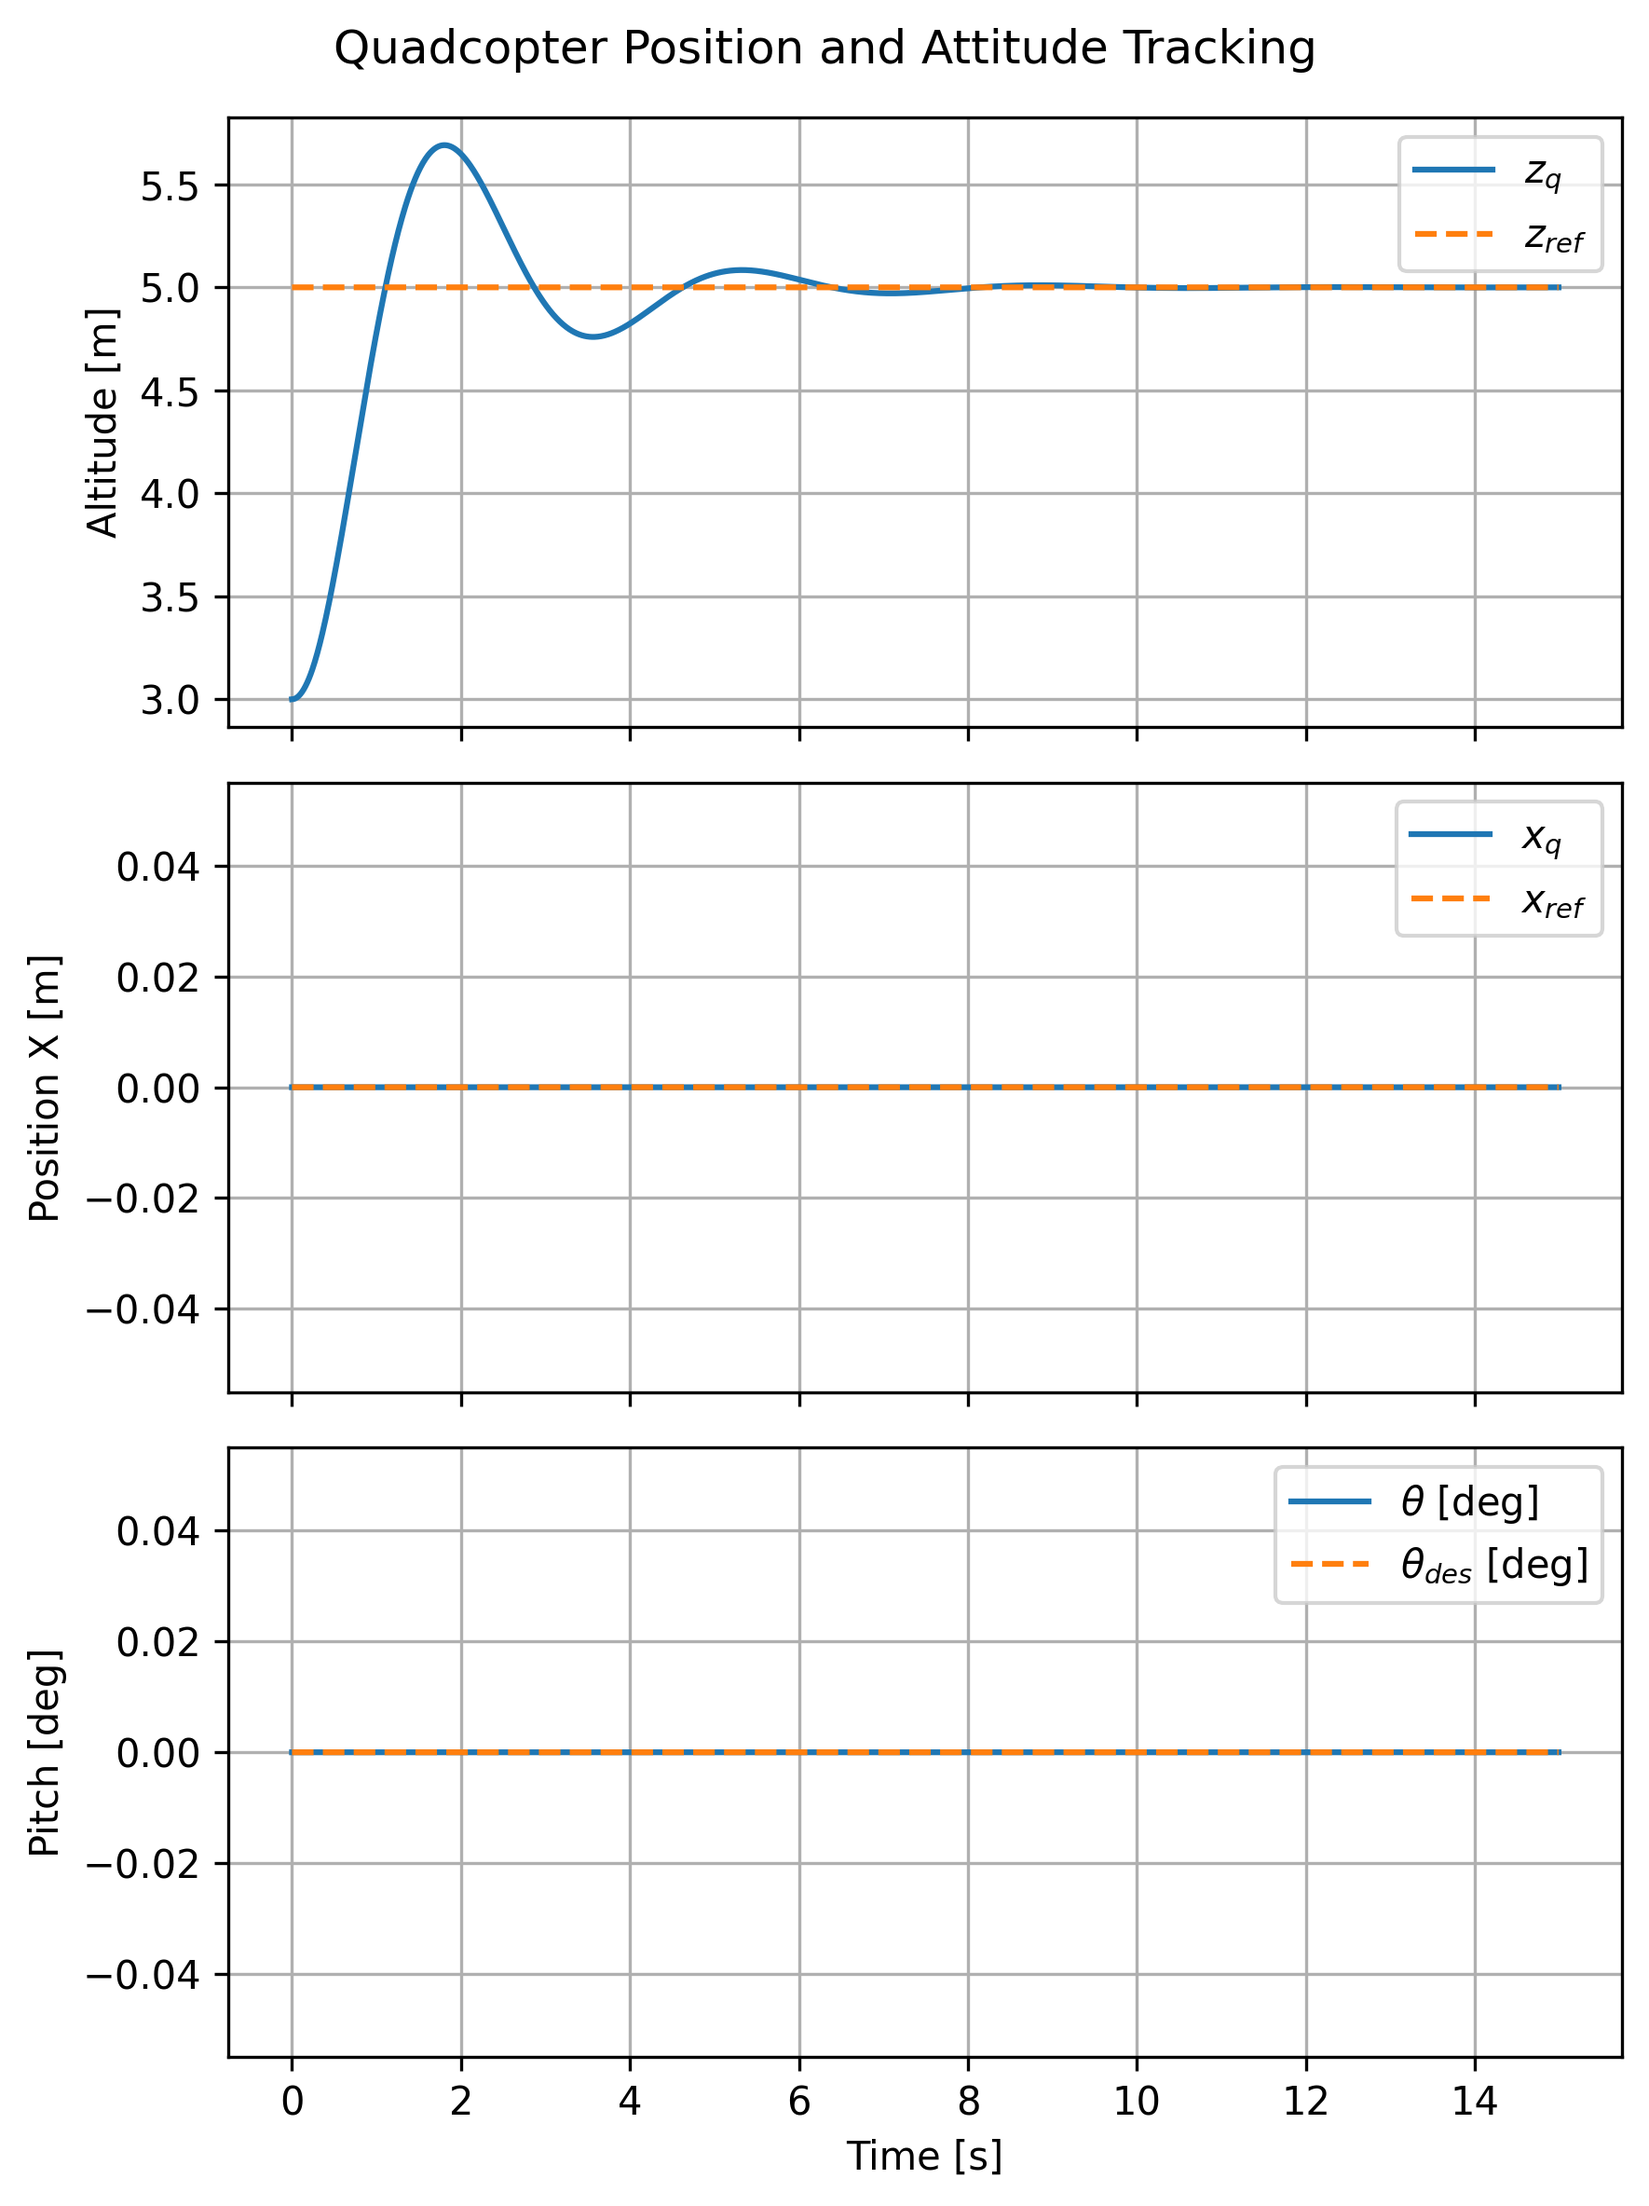
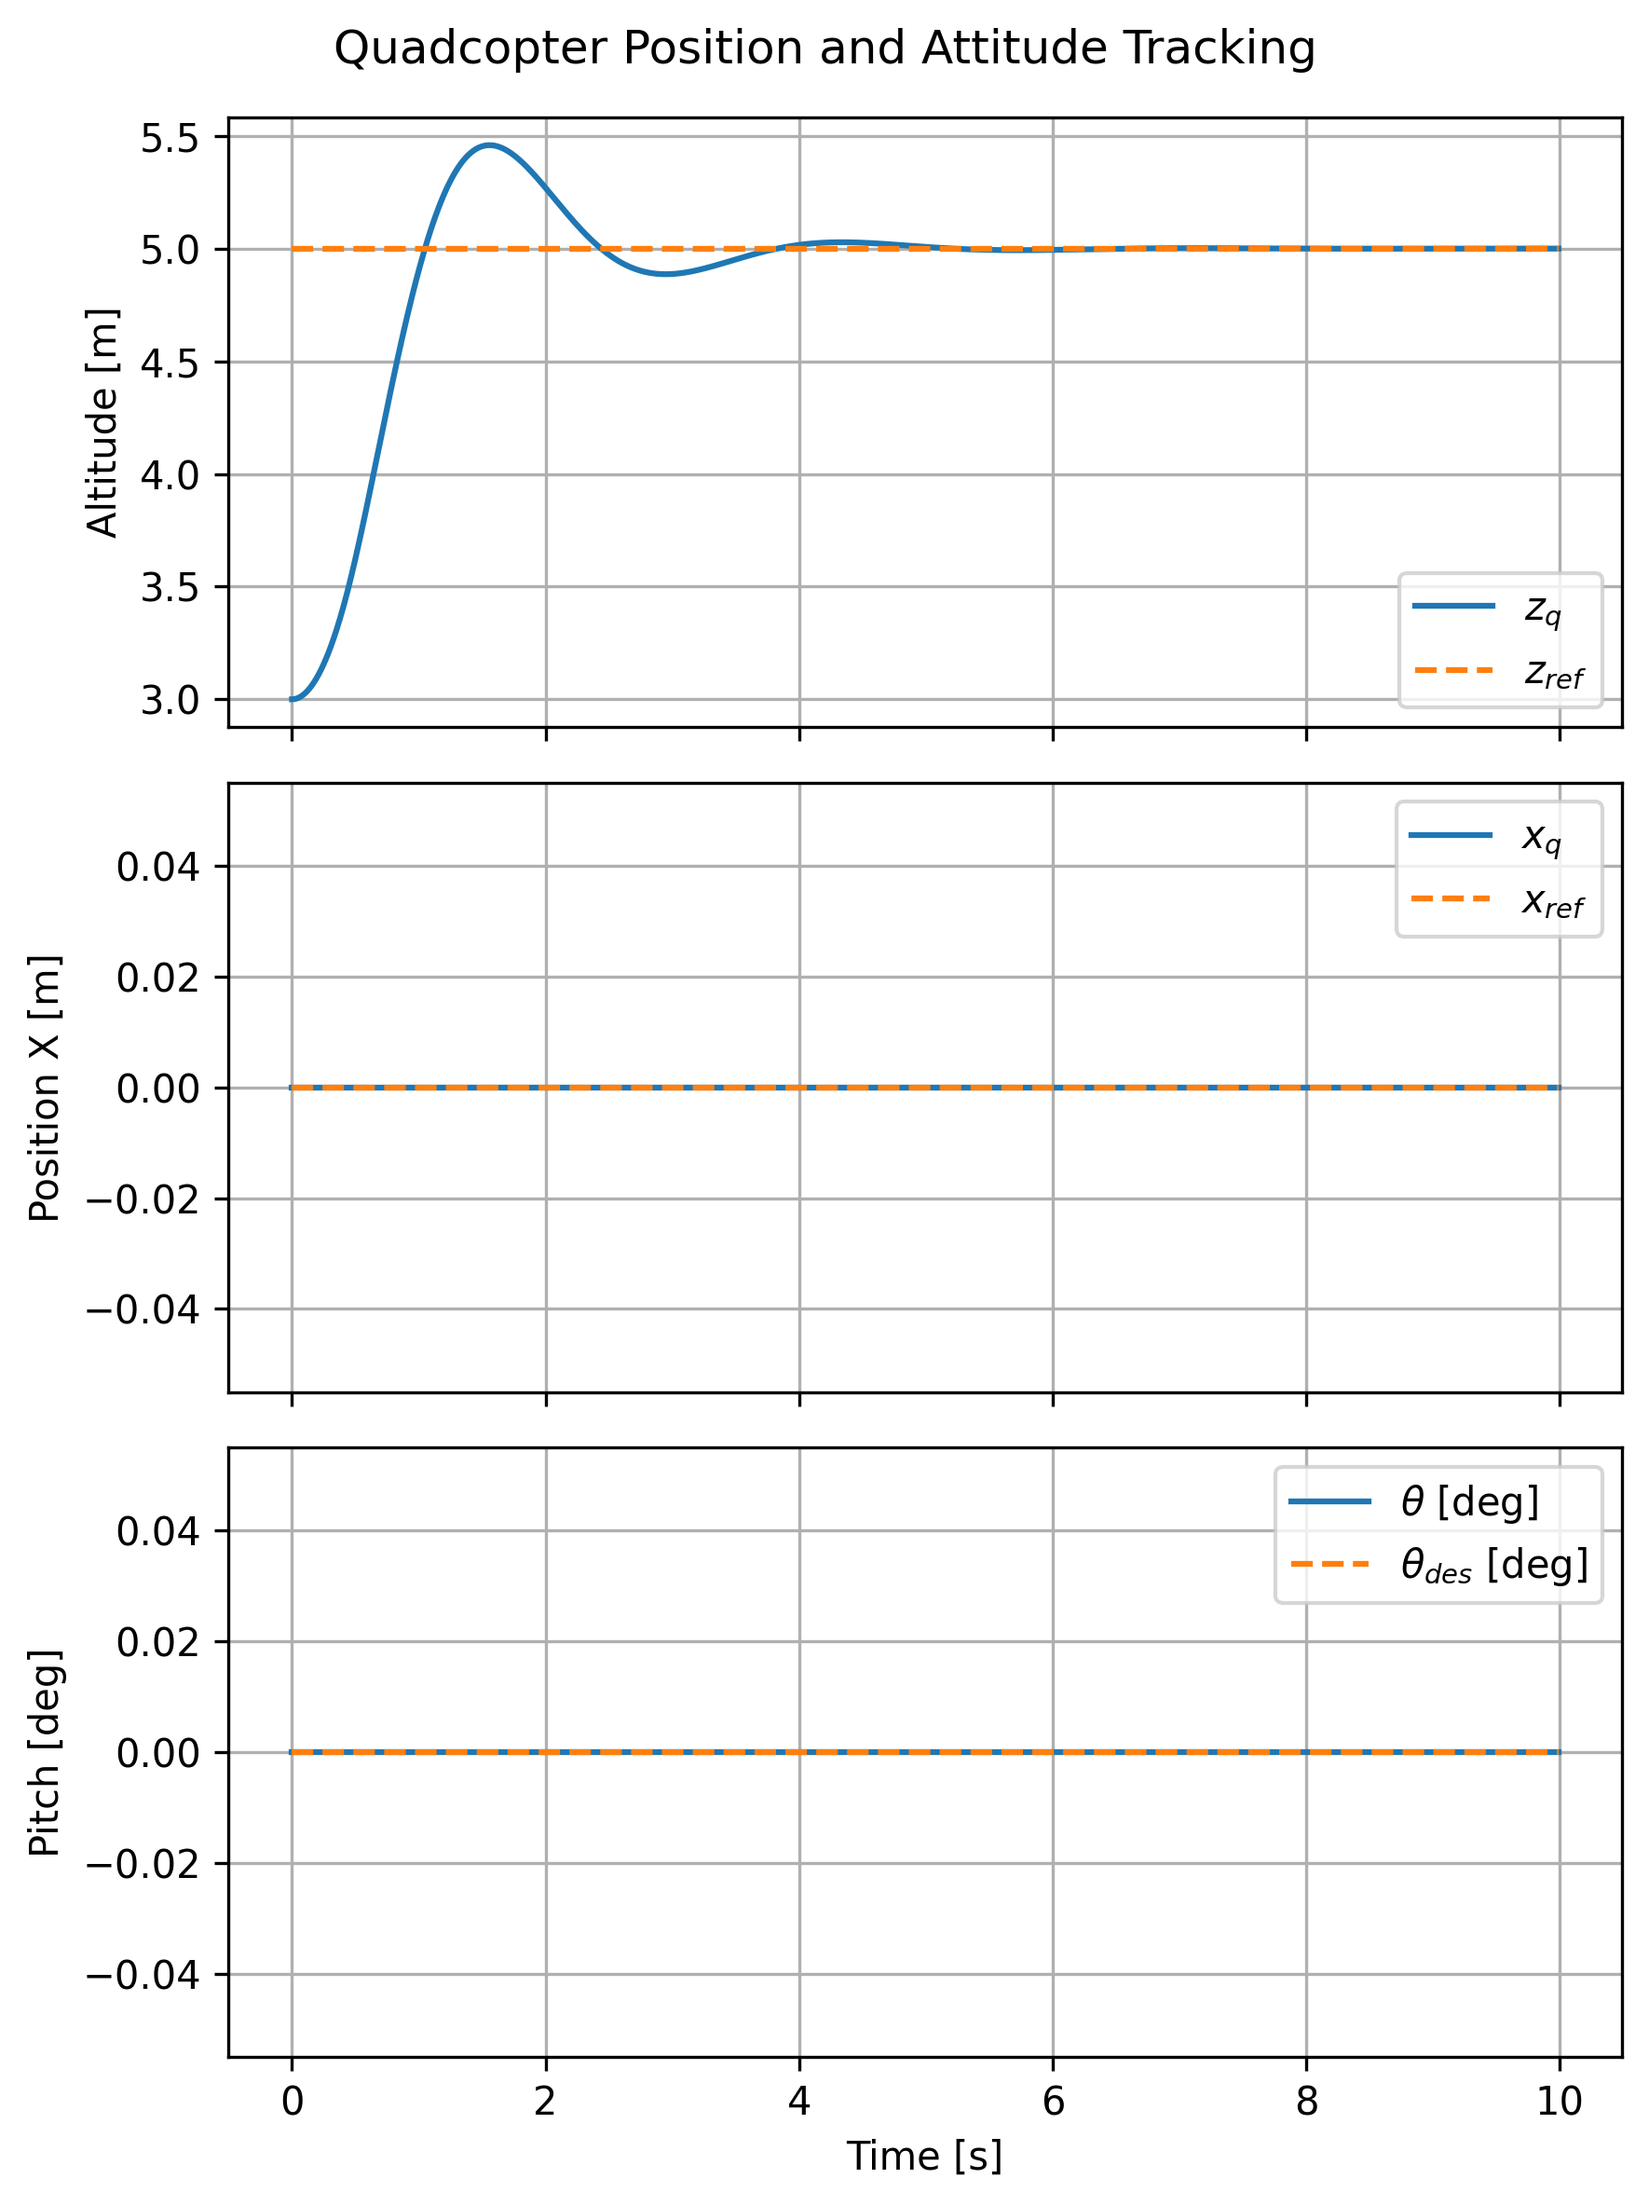
load gains from config.yaml

diff --git a/sim/simulation.py b/sim/simulation.py
@@ -39,10 +39,18 @@ def run_simulation(params, T, dt):
     TAU_MAX     = float(params.get("actuators", {}).get("max_pitch_torque", 5.0))
     T_MAX_TOTAL = 4.0 * T_MAX_ROTOR
 
-    # Controllers
-    x_controller = PIDController(Kp=0.7, Ki=0.0, Kd=0.25, u_min=-2.0, u_max=2.0)
-    z_controller = PIDController(Kp=3.5, Ki=0.0, Kd=1.2, u_min=-5.0, u_max=5.0)
-    Kp_theta, Kd_theta = 28.0, 10.0
+    # Load controller gains
+    Kp_x, Ki_x, Kd_x = float(params["pid"]["x"]["Kp"]), float(params["pid"]["x"]["Ki"]), float(params["pid"]["x"]["Kd"])
+    u_min_x, u_max_x = float(params["pid"]["x"]["u_min"]), float(params["pid"]["x"]["u_max"])
+
+    Kp_z, Ki_z, Kd_z = float(params["pid"]["z"]["Kp"]), float(params["pid"]["z"]["Ki"]), float(params["pid"]["z"]["Kd"])
+    u_min_z, u_max_z = float(params["pid"]["z"]["u_min"]), float(params["pid"]["z"]["u_max"])
+
+    Kp_theta, Kd_theta = float(params["pid"]["theta"]["Kp"]), float(params["pid"]["theta"]["Kd"])
+
+    # Define controllers
+    x_controller = PIDController(Kp_x, Ki_x, Kd_x, u_min_x, u_max_x)
+    z_controller = PIDController(Kp_z, Ki_z, Kd_z, u_min_z, u_max_z)
 
     x_ref = 0.0
     z_ref = 5.0
@@ -142,7 +150,7 @@ if __name__ == "__main__":
         raise FileNotFoundError(f"Config file not found. Searched: {candidates}")
     params = load_params(str(config_file))
 
-    T, dt = 15.0, 0.01
+    T, dt = 10.0, 0.01
     (
         time,
         quad_traj,
